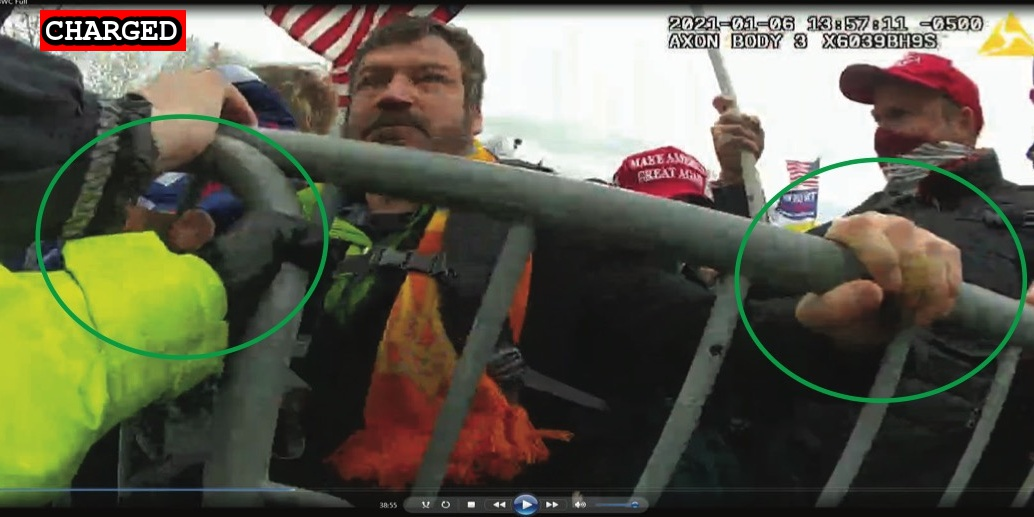
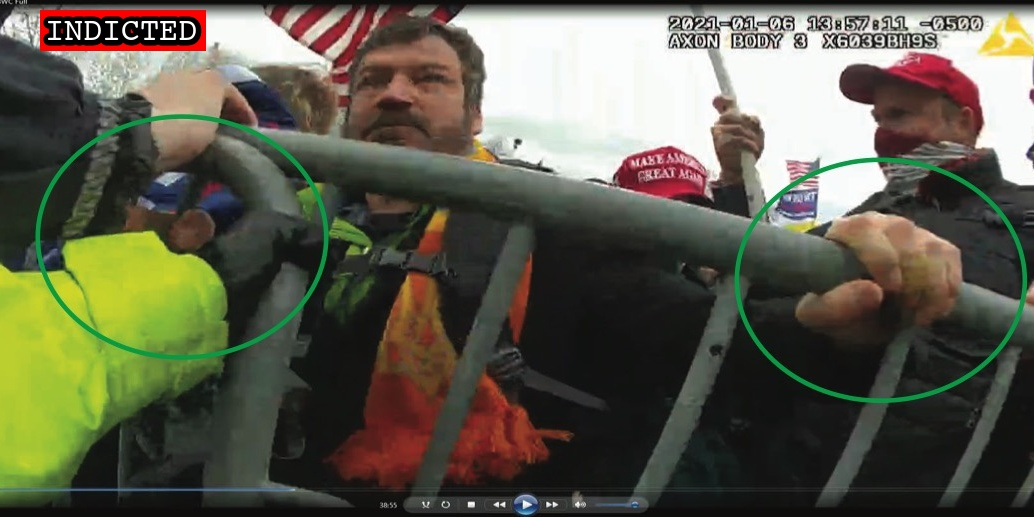
Neumann indictment

Changed region(s): [[0.0309, 0.0, 0.2166, 0.1238]]

diff --git a/docs/_suspects/evan-neumann.md b/docs/_suspects/evan-neumann.md
@@ -4,10 +4,10 @@ lastName: Neumann
 hashtag: DrunkenTrashStache
 aka:
 residence: California
-status: Charged
+status: Indicted
 date: 2021-03-23
 charged: 2021-03-23
-indicted:
+indicted: 2021-12-14
 convicted:
 sentenced:
 dismissed:
@@ -39,3 +39,5 @@ sentence:
 
 - [News Report](https://abc7news.com/evan-neumann-mill-valley-fbi-most-wanted-list/10882741/)
 - [Statement of Facts](https://extremism.gwu.edu/sites/g/files/zaxdzs2191/f/Evan%20Neumann%20Statement%20of%20Facts.pdf)
+- [Indictment](https://storage.courtlistener.com/recap/gov.uscourts.dcd.238424/gov.uscourts.dcd.238424.7.0.pdf)
+- [Press Release](https://www.justice.gov/usao-dc/pr/california-man-indicted-charges-assaulting-law-enforcement-during-jan-6-capitol-breach)
